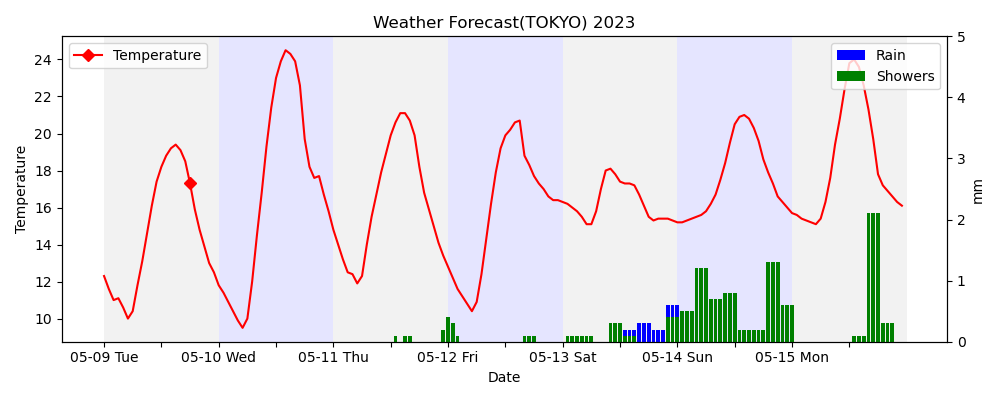
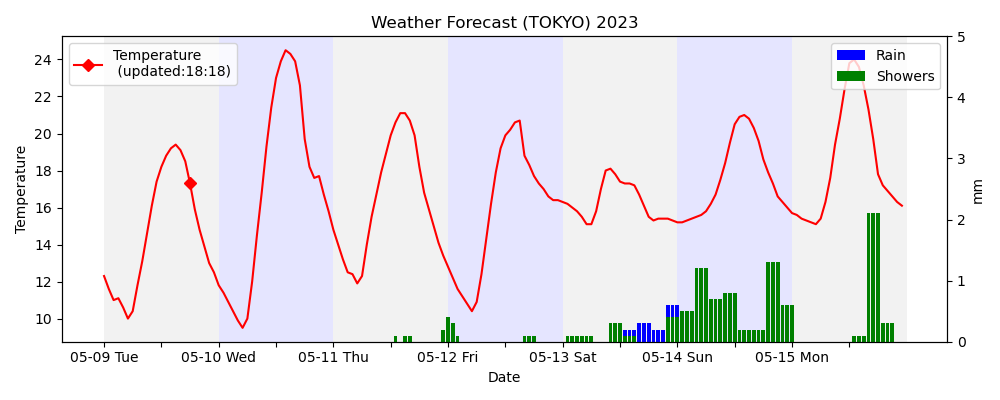
deploy: 38ed000c0721f557a1e0d01cbceb620ba8780feb

Changed region(s): [[0.372, 0.03, 0.651, 0.09], [0.062, 0.12, 0.248, 0.21]]

diff --git a/files/src/dashboard/forecast.py b/files/src/dashboard/forecast.py
@@ -48,8 +48,9 @@ def draw_chart(data):
         # No match found
         marker = [0]
 
+    updated_time = datetime.now().strftime('%H:%M')
     # plot data
-    ax.plot(new_labels, temperature, '-D',markevery = marker, color='red', label='Temperature')
+    ax.plot(new_labels, temperature, '-D',markevery = marker, color='red', label='Temperature \n ' + "(updated:" + updated_time +")" )
     ax2 = ax.twinx()
     ax2.bar(new_labels, rain, color='blue', label='Rain')
     ax2.bar(new_labels, showers, color='green', label='Showers')
@@ -81,6 +82,7 @@ def draw_chart(data):
 
         #ax.text( i, 0.5, day_of_week, color='black', ha='center', va='center')
     # set labels and title
+    
     ax.set_xlabel('Date')
     ax.set_ylabel('Temperature')
     ax2.set_ylabel('mm')
